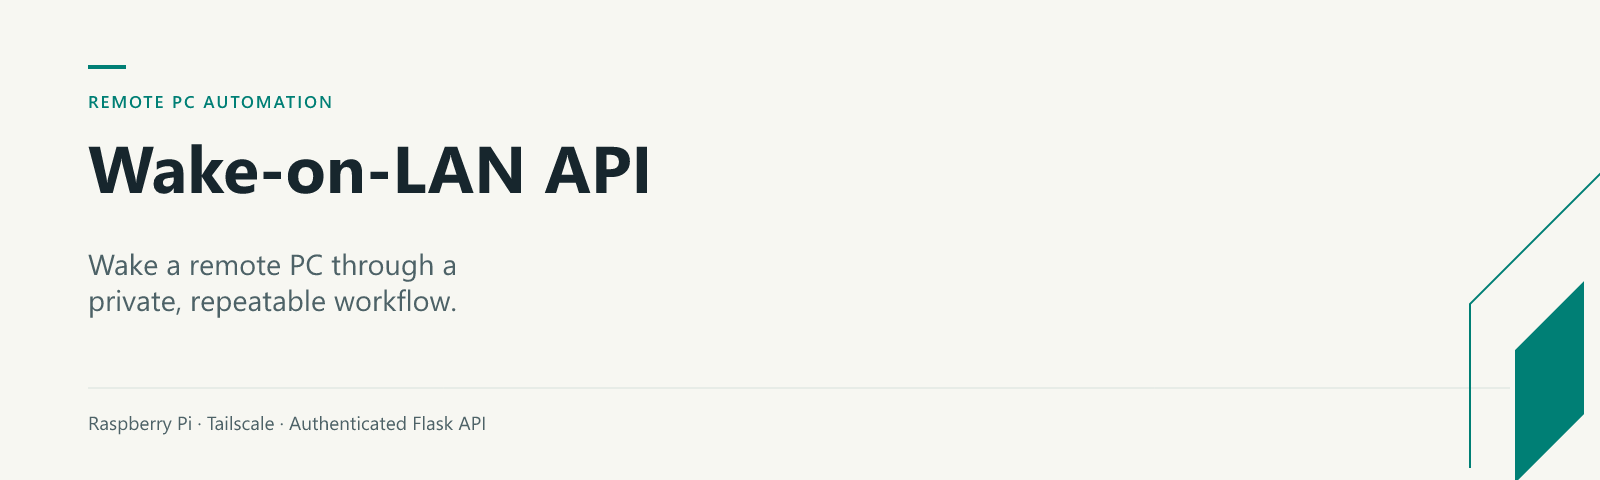
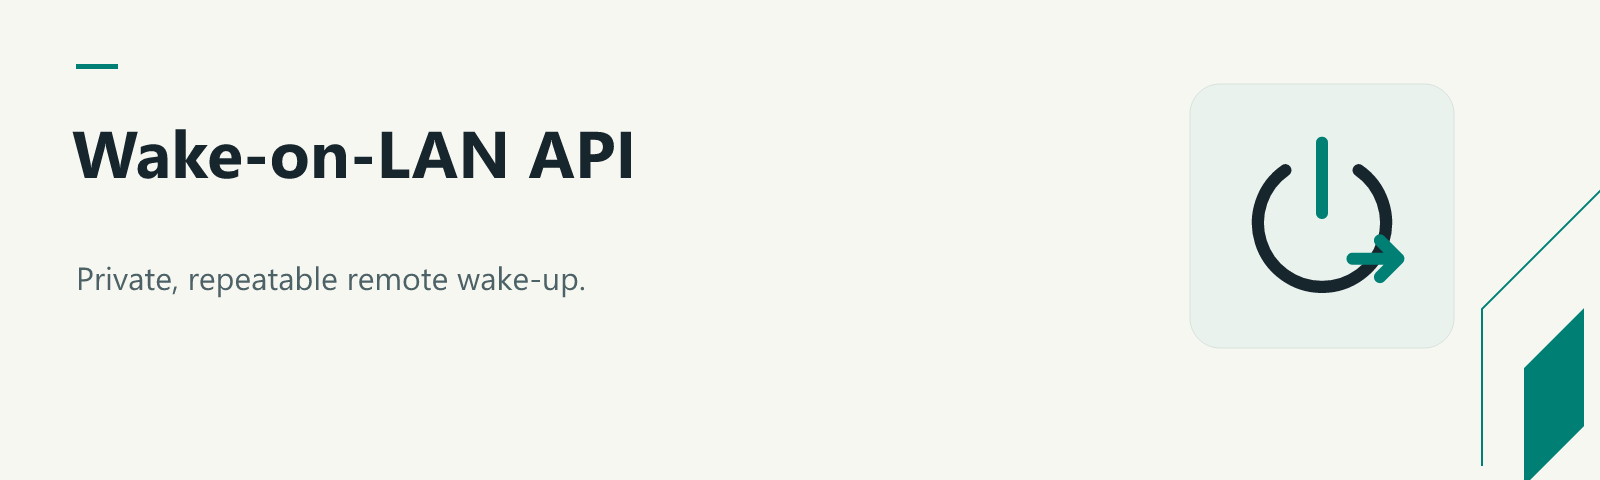
Refresh remote wake identity and workflow visual

diff --git a/docs/brand/README.md b/docs/brand/README.md
@@ -1,5 +1,5 @@
 # Project presentation assets
 
-The PNG header is used in the project README. The social preview is used by GitHub when the repository is shared. Matching SVG sources preserve editable text and original logo artwork.
+The header, social preview, evidence visual and new project mark share the ivory, ink and teal identity. Editable SVG masters and logo provenance are maintained in [the profile repository](https://github.com/MoayadAlshehry/MoayadAlshehry/tree/main/brand).
 
-The shared identity and logo provenance are maintained in [Moayad Alshehry’s profile repository](https://github.com/MoayadAlshehry/MoayadAlshehry/tree/main/brand). These are presentation graphics; actual application screenshots are kept separately.
+Evidence visuals distinguish actual interfaces, fictional demonstration data, illustrative workflows and offline examples. Product behavior and hardware support are documented in the main README.

diff --git a/README.md b/README.md
@@ -10,6 +10,8 @@ A Flask API running on a Raspberry Pi or Linux host sends a Wake-on-LAN packet t
 iPhone / client → Tailscale → Flask API → wakeonlan → target PC
 ```
 
+![Documented private remote-wake workflow](docs/brand/project-evidence.png)
+
 ## Requirements
 
 - Python 3.10+ on an always-on Linux host.
